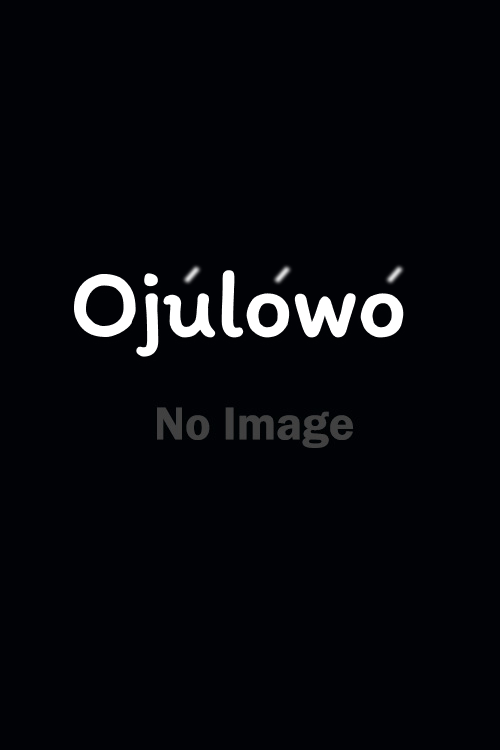
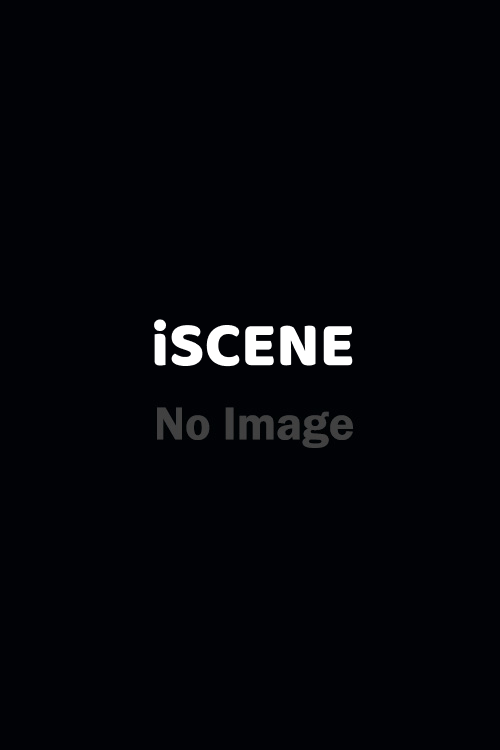
commit

Changed region(s): [[0.15, 0.3373, 0.81, 0.4907]]

diff --git a/index.html b/index.html
@@ -16,14 +16,14 @@
     <link rel="stylesheet" href="css/spinner.css" />
     <script src="lib/swiper.js"></script>
     <script src="js/script.js" defer></script>
-    <title>Ojulowo</title>
+    <title>iscene</title>
   </head>
   <body>
     <header class="main-header">
       <div class="container">
         <div class="logo">
           <a href="/"
-            ><img src="images/logo.png" width="120" height="50" alt=""
+            ><img src="images/logo.png" width="90" height="30" alt=""
           /></a>
         </div>
         <nav>
@@ -86,130 +86,7 @@
     <!-- Popular Movies -->
     <section class="container">
       <h2>Popular Movies</h2>
-      <div id="popular-movies" class="grid">
-        <div class="card">
-          <a href="movie-details.html?id=1">
-            <img
-              src="images/no-image.png"
-              class="card-img-top"
-              alt="Movie Title"
-            />
-          </a>
-          <div class="card-body">
-            <h5 class="card-title">Movie Title</h5>
-            <p class="card-text">
-              <small class="text-muted">Release: XX/XX/XXXX</small>
-            </p>
-          </div>
-        </div>
-        <div class="card">
-          <a href="movie-details.html?id=1">
-            <img
-              src="images/no-image.png"
-              class="card-img-top"
-              alt="Movie Title"
-            />
-          </a>
-          <div class="card-body">
-            <h5 class="card-title">Movie Title</h5>
-            <p class="card-text">
-              <small class="text-muted">Release: XX/XX/XXXX</small>
-            </p>
-          </div>
-        </div>
-        <div class="card">
-          <a href="movie-details.html?id=1">
-            <img
-              src="/images/no-image.png"
-              class="card-img-top"
-              alt="Movie Title"
-            />
-          </a>
-          <div class="card-body">
-            <h5 class="card-title">Movie Title</h5>
-            <p class="card-text">
-              <small class="text-muted">Release: XX/XX/XXXX</small>
-            </p>
-          </div>
-        </div>
-        <div class="card">
-          <a href="movie-details.html?id=1">
-            <img
-              src="/images/no-image.png"
-              class="card-img-top"
-              alt="Movie Title"
-            />
-          </a>
-          <div class="card-body">
-            <h5 class="card-title">Movie Title</h5>
-            <p class="card-text">
-              <small class="text-muted">Release: XX/XX/XXXX</small>
-            </p>
-          </div>
-        </div>
-        <div class="card">
-          <a href="movie-details.html?id=1">
-            <img
-              src="/images/no-image.png"
-              class="card-img-top"
-              alt="Movie Title"
-            />
-          </a>
-          <div class="card-body">
-            <h5 class="card-title">Movie Title</h5>
-            <p class="card-text">
-              <small class="text-muted">Release: XX/XX/XXXX</small>
-            </p>
-          </div>
-        </div>
-        <div class="card">
-          <a href="movie-details.html?id=1">
-            <img
-              src="/images/no-image.png"
-              class="card-img-top"
-              alt="Movie
-            Title"
-            />
-          </a>
-          <div class="card-body">
-            <h5 class="card-title">Movie Title</h5>
-            <p class="card-text">
-              <small class="text-muted">Release: XX/XX/XXXX</small>
-            </p>
-          </div>
-        </div>
-        <div class="card">
-          <a href="movie-details.html?id=1">
-            <img
-              src="/images/no-image.png"
-              class="card-img-top"
-              alt="Movie
-            Title"
-            />
-          </a>
-          <div class="card-body">
-            <h5 class="card-title">Movie Title</h5>
-            <p class="card-text">
-              <small class="text-muted">Release: XX/XX/XXXX</small>
-            </p>
-          </div>
-        </div>
-        <div class="card">
-          <a href="movie-details.html?id=1">
-            <img
-              src="/images/no-image.png"
-              class="card-img-top"
-              alt="Movie Title"
-            />
-          </a>
-          <div class="card-body">
-            <h5 class="card-title">Movie Title</h5>
-            <p class="card-text">
-              <small class="text-muted">Release: XX/XX/XXXX</small>
-            </p>
-          </div>
-        </div>
-      </div>
+      <div id="popular-movies" class="grid"></div>
     </section>
 
     <!-- Footer -->

diff --git a/js/script.js b/js/script.js
@@ -1,18 +1,90 @@
-//APIKey = e2121f4c0901b3856a1985143270d754
-//AccessToken = eyJhbGciOiJIUzI1NiJ9.eyJhdWQiOiJlMjEyMWY0YzA5MDFiMzg1NmExOTg1MTQzMjcwZDc1NCIsInN1YiI6IjYzZGMwNDU4YTkxMTdmMDA5M2NmMjliYiIsInNjb3BlcyI6WyJhcGlfcmVhZCJdLCJ2ZXJzaW9uIjoxfQ._n71JBLy1x5_ydllc7My7H9upSc7TeWswlDiGtknZDY
-
 const global = {
   currentPage: window.location.pathname,
 };
 
+async function displayPopularMovies() {
+  const { results } = await fetchAPIData("movie/popular");
+  results.forEach((movie) => {
+    const div = document.createElement("div");
+    div.classList.add("card");
+    div.innerHTML = ` <div class="card">
+          <a href="movie-details.html?id=${movie.id}">
+            ${
+              movie.poster_path
+                ? `<img
+              src="https://image.tmdb.org/t/p/w500${movie.poster_path}"
+              class="card-img-top"
+              alt=${movie.title}
+            />`
+                : `<img
+              src="images/no-image.png"
+              class="card-img-top"
+              alt="Movie Title"
+            />`
+            }
+          </a>
+          <div class="card-body">
+            <h5 class="card-title">${movie.title}</h5>
+            <p class="card-text">
+              <small class="text-muted">Release: ${movie.release_date}</small>
+            </p>
+          </div>
+        </div>`;
+    document.querySelector("#popular-movies").appendChild(div);
+  });
+}
+async function displayTVShows() {
+  const { results } = await fetchAPIData("movie/popular");
+  results.forEach((movie) => {
+    const div = document.createElement("div");
+    div.classList.add("card");
+    div.innerHTML = ` <div class="card">
+          <a href="movie-details.html?id=${movie.id}">
+            ${
+              movie.poster_path
+                ? `<img
+              src="https://image.tmdb.org/t/p/w500${movie.poster_path}"
+              class="card-img-top"
+              alt=${movie.title}
+            />`
+                : `<img
+              src="images/no-image.png"
+              class="card-img-top"
+              alt="Movie Title"
+            />`
+            }
+          </a>
+          <div class="card-body">
+            <h5 class="card-title">${movie.title}</h5>
+            <p class="card-text">
+              <small class="text-muted">Release: ${movie.release_date}</small>
+            </p>
+          </div>
+        </div>`;
+    document.querySelector("#popular-movies").appendChild(div);
+  });
+}
 //Fetch data from TMDB API
 async function fetchAPIData(endpoint) {
-  //LOL, don't COPY
-  //You can get yours at https://www.themoviedb.org/
-
+  //LOL, don't COPY. You can get yours at https://www.themoviedb.org/
   const API_KEY = "e2121f4c0901b3856a1985143270d754";
   const API_URL = "https://api.themoviedb.org/3/";
+  showSpinner();
+  const response = await fetch(
+    `${API_URL}${endpoint}?api_key=${API_KEY}&language=en-US `
+  );
+  const data = await response.json();
+  hideSpinner();
+  return data;
 }
+
+function showSpinner() {
+  document.querySelector(".spinner").classList.add("show");
+}
+function hideSpinner() {
+  document.querySelector(".spinner").classList.remove("show");
+}
+
 function highlightActiveLink() {
   const links = document.querySelectorAll(".nav-link");
   links.forEach((link) => {
@@ -21,10 +93,12 @@ function highlightActiveLink() {
     }
   });
 }
+
 function init() {
   switch (global.currentPage) {
     case "/":
     case "/index.html":
+      displayPopularMovies();
       console.log("Home");
       break;
     case "/shows.html":
